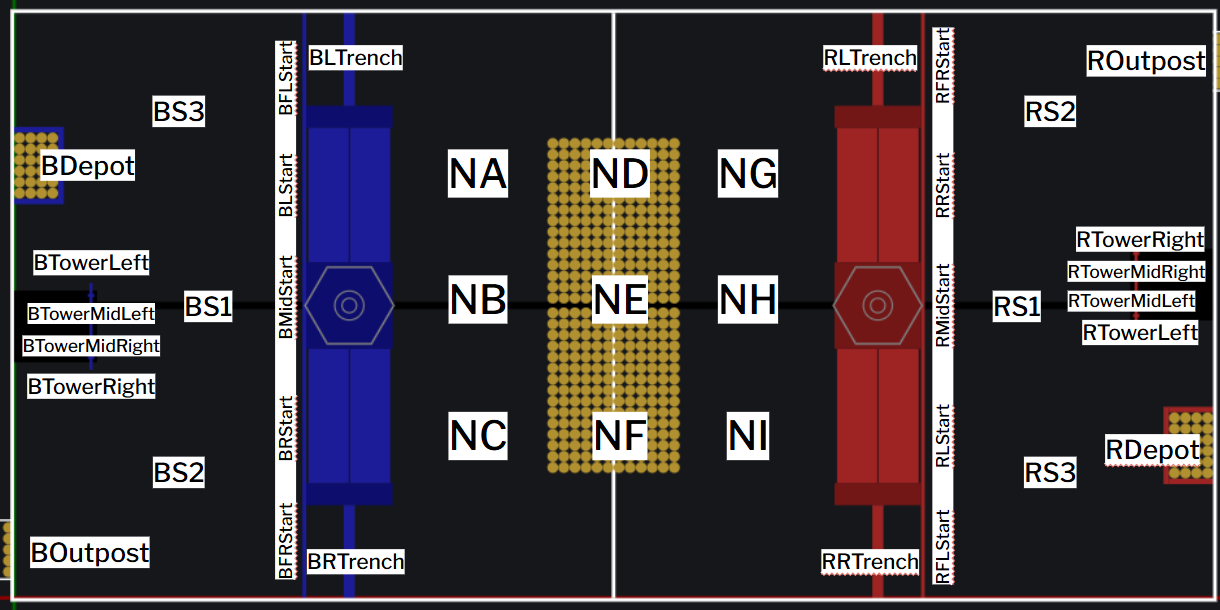
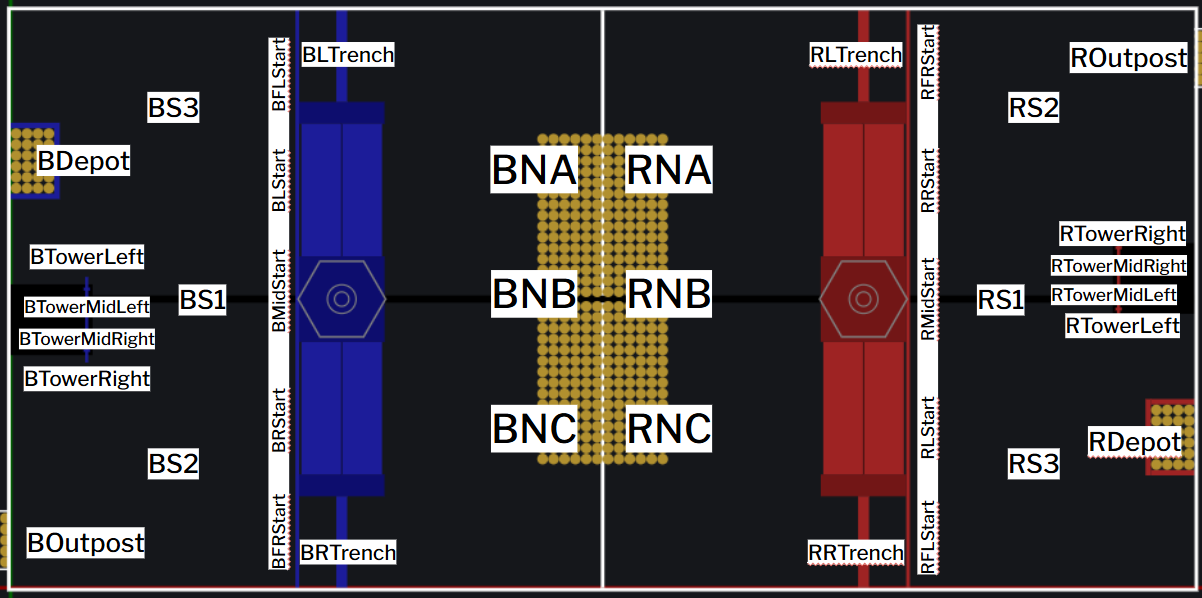
updated neutral zone locations to new paradigm

diff --git a/src/main/java/frc/robot/autos/Location.java b/src/main/java/frc/robot/autos/Location.java
@@ -5,16 +5,10 @@ import frc.robot.FieldConstants;
 
 public enum Location {
 
-  // Field (Neutral) Locations Relative to blue side
+  // Field (Neutral) Locations
   NA("BNA", "RNA"),
   NB("BNB", "RNB"),
   NC("BNC", "RNC"),
-  ND("BND", "RND"),
-  NE("BNE", "RNE"), 
-  NF("BNF", "RNF"),
-  NG("BNG", "RNG"),
-  NH("BNH", "RNH"),
-  NI("BNI", "RNI"),
 
   DEPOT("BDEPOT", "RDEPOT"),
   OUTPOST("BOUTPOST", "ROUTPOST"),
